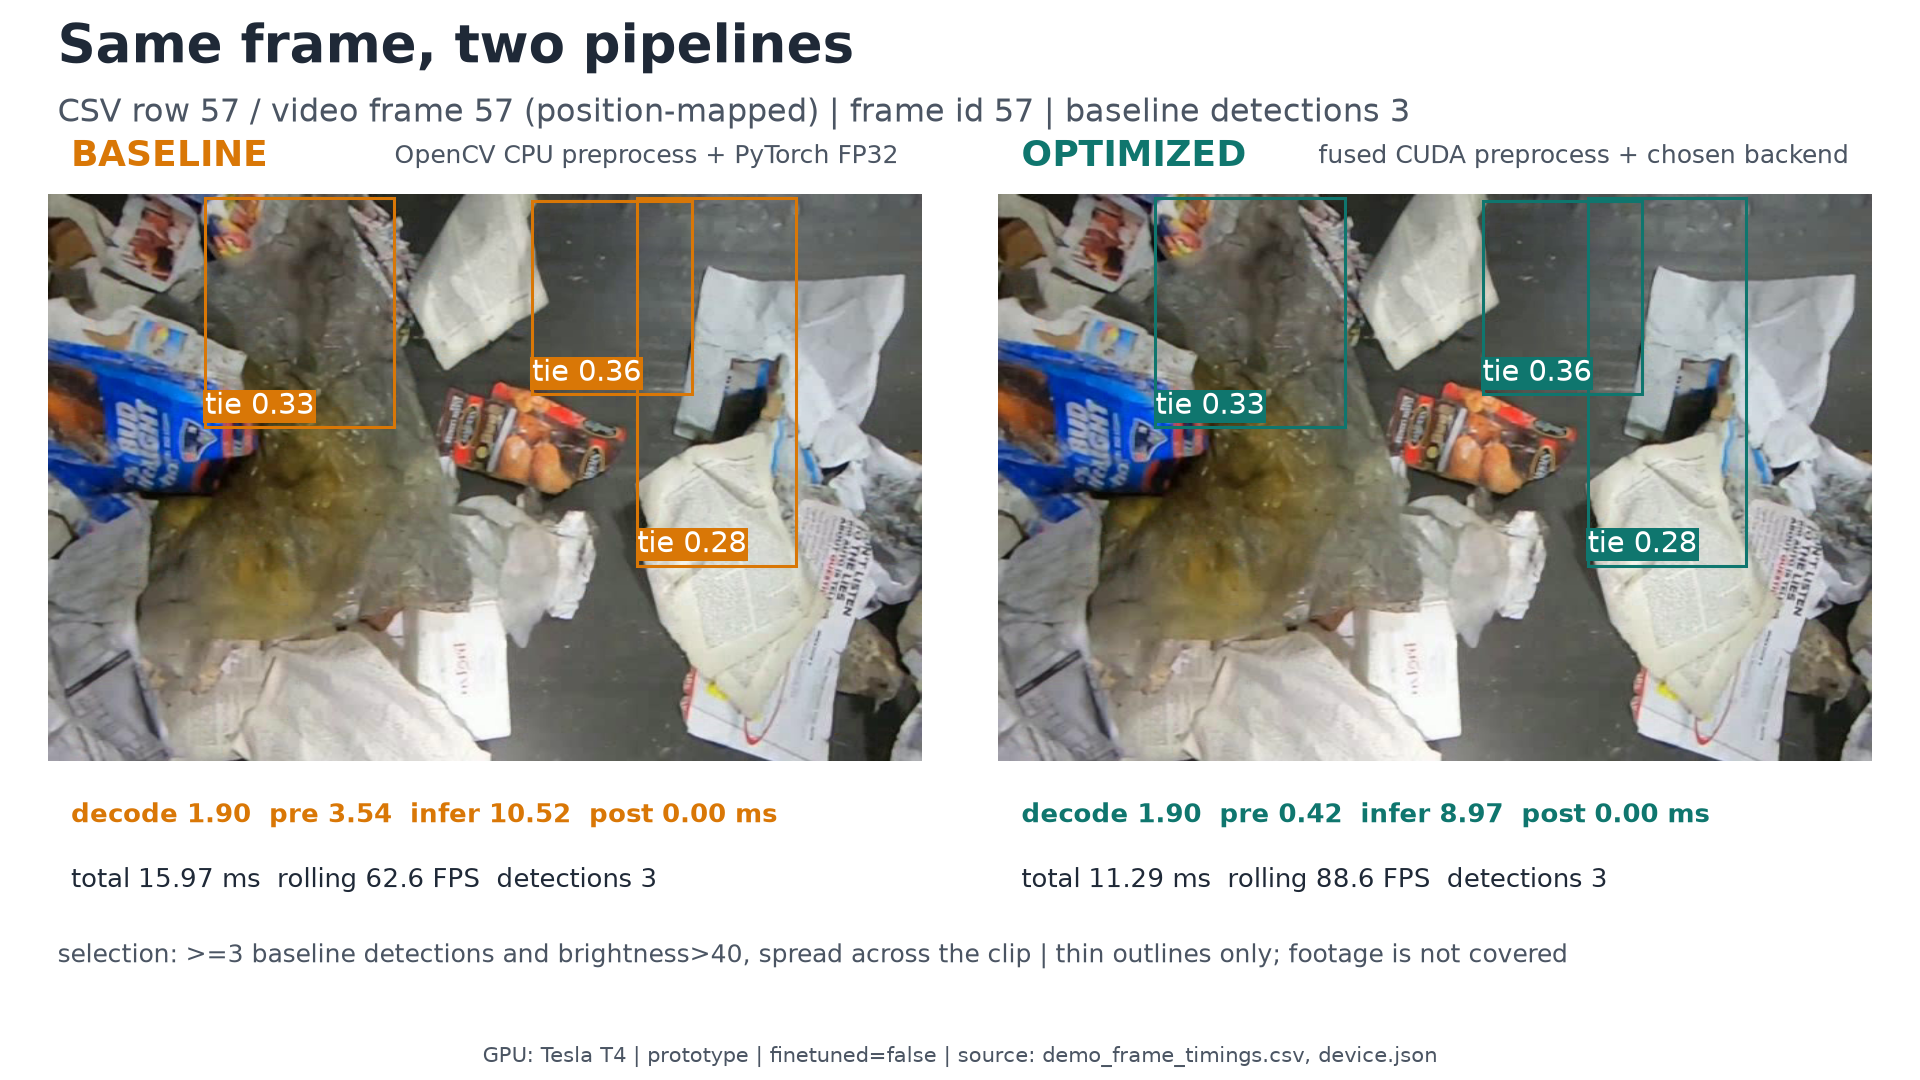
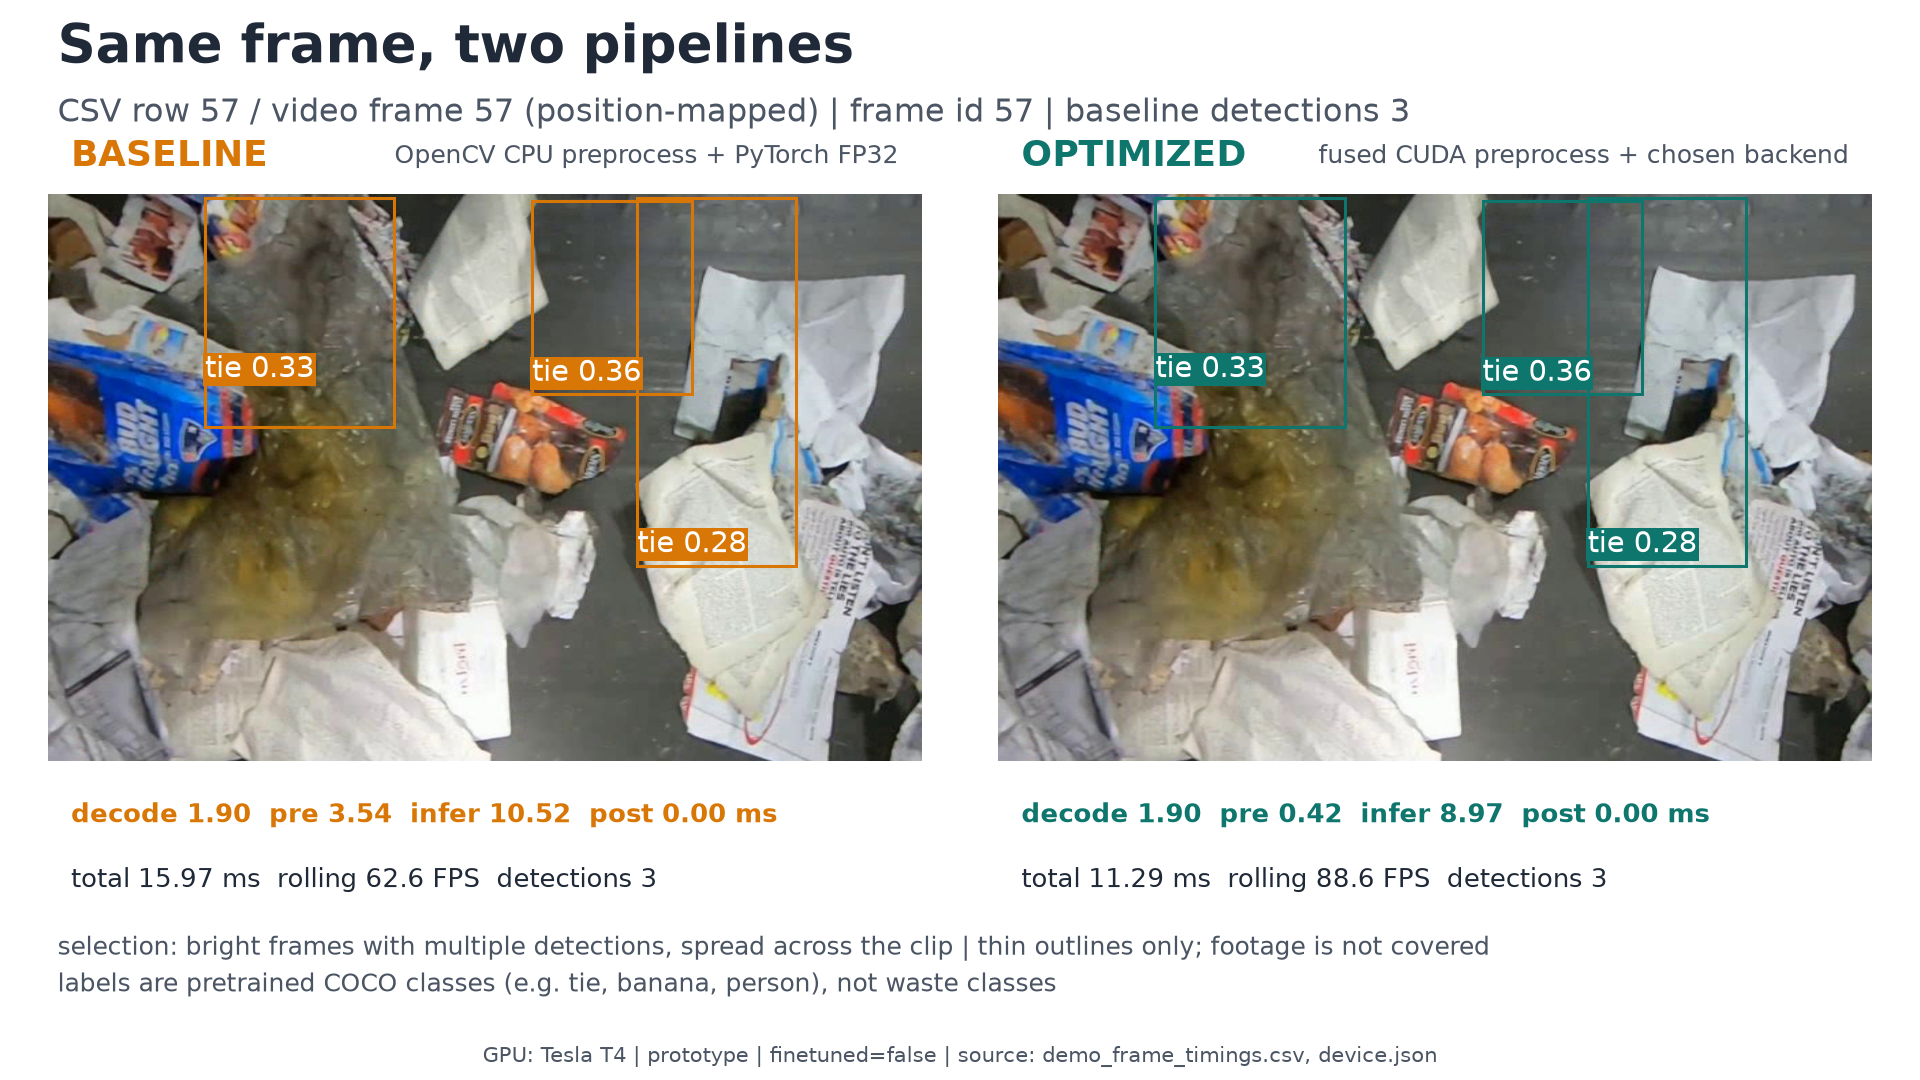
ppt pack: honest COCO-label note, staggered box labels, atomic PNG writes, refreshed index

Changed region(s): [[0.0312, 0.8556, 0.8125, 0.9167], [0.0938, 0.3056, 0.1875, 0.3972], [0.5938, 0.3056, 0.6562, 0.3972]]

diff --git a/tools/make_ppt_pack.py b/tools/make_ppt_pack.py
@@ -26,7 +26,9 @@ import sys
 sys.dont_write_bytecode = True
 
 import csv
+import os
 import random
+import time
 from pathlib import Path
 from typing import Any, Iterable
 
@@ -160,7 +162,7 @@ DESCRIPTIONS = {
     "08_memory_bound_and_streams": "Shows Nsight Compute DRAM versus SM utilisation and measured single-to-multi-stream transfer times.",
     "09_multi_feed": "Compares serial and pipelined FPS per feed at one, two and four feeds.",
     "10_what_did_not_work": "Collects the three measured regressions: float4 loads, FP16 inference and multi-feed pipelining.",
-    "11_detection_quality": "Shows six fixed-seed validation frames with their labelled boxes and the fine-tune status.",
+    "11_detection_quality": "Shows six fixed-seed validation frames with thin outlined ground-truth boxes and the fine-tune status.",
 }
 
 SOURCES: dict[str, list[str]] = {}
@@ -283,8 +285,20 @@ class Canvas:
         self.fig.text(0.5, 0.012, footer, ha="center", va="bottom",
                       fontsize=FOOTER, color=MUTED)
         image_path = OUT / f"{self.stem}.png"
-        self.fig.savefig(image_path, dpi=DPI, facecolor="white")
+        # Write to a fresh temp file first: on Windows an image viewer can hold
+        # the previous PNG open, which makes a direct overwrite fail with
+        # WinError 22.  Retry the atomic replace briefly instead of losing data.
+        temp_path = OUT / f".{self.stem}.{os.getpid()}.tmp.png"
+        self.fig.savefig(temp_path, dpi=DPI, facecolor="white")
         plt.close(self.fig)
+        for attempt in range(20):
+            try:
+                temp_path.replace(image_path)
+                break
+            except OSError:
+                if attempt == 19:
+                    raise
+                time.sleep(0.15)
         with Image.open(image_path) as im:
             size = im.size
             im.verify()
@@ -421,6 +435,7 @@ def draw_frame_panel(
     cls_names: dict[int, str],
     *,
     show_score: bool = True,
+    draw_labels: bool = True,
 ) -> None:
     """Contain-fit one frame and draw thin boxes with large class labels."""
     x0, y0, w, h = ax.get_position().bounds
@@ -439,7 +454,7 @@ def draw_frame_panel(
     def sy(value: float) -> float:
         return yhi - max(0.0, min(ih, value)) * scale / FIG_H
 
-    for box in boxes:
+    for box_index, box in enumerate(boxes):
         x1, x2 = sorted((sx(box.x1), sx(box.x2)))
         top, bottom = sorted((sy(box.y1), sy(box.y2)))
         if x2 - x1 < 0.001 or bottom - top < 0.001:
@@ -448,14 +463,16 @@ def draw_frame_panel(
             Rectangle((x1, bottom), x2 - x1, top - bottom, transform=ax.transData,
                       fill=False, edgecolor=color, linewidth=2.2)
         )
-        name = cls_names.get(box.cls)
-        base = name or f"cls {box.cls}"
-        label = f"{base} {box.score:.2f}" if show_score else base
-        ax.text(
-            x1, top + 0.006, label, fontsize=BOX_LABEL, color="white",
-            va="bottom", ha="left",
-            bbox=dict(facecolor=color, edgecolor="none", pad=1.2),
-        )
+        if draw_labels:
+            name = cls_names.get(box.cls)
+            base = name or f"cls {box.cls}"
+            label = f"{base} {box.score:.2f}" if show_score else base
+            label_y = top + 0.006 + (0.034 if box_index % 2 else 0.0)
+            ax.text(
+                x1, label_y, label, fontsize=BOX_LABEL, color="white",
+                va="bottom", ha="left",
+                bbox=dict(facecolor=color, edgecolor="none", pad=1.2),
+            )
 
 
 # --------------------------------------------------------------------------- #
@@ -577,10 +594,16 @@ def build_02(data: PPTData, chosen: list[FrameTiming], brightness: list[float],
                     source="demo_frame_timings.csv")
             c.value(f"{prefix} boxes drawn", len(boxes), unit="boxes", panel=label,
                     source="demo_frame_timings.csv")
-        note = "selection: >=3 baseline detections and brightness>40, spread across the clip"
+        note = "selection: bright frames with multiple detections, spread across the clip"
         if relaxed:
-            note = "selection relaxed to >=1 detection: no frame met >=3 detections"
-        c.text(0.03, 0.115, note + " | thin outlines only; footage is not covered",
+            note = "selection relaxed: no frame met the multi-detection rule"
+        c.text(0.03, 0.122, note + " | thin outlines only; footage is not covered",
+               size=MINI, color=MUTED)
+        # Say plainly that these are COCO class names from the pretrained model,
+        # so a waste-detection claim is never implied by labels like 'banana'.
+        c.text(0.03, 0.088,
+               "labels are pretrained COCO classes (e.g. tie, banana, person), "
+               "not waste classes",
                size=MINI, color=MUTED)
         c.value("selection", None, panel="selection", source="demo_frame_timings.csv", note=note)
         c.finish(footer_for(data, stem), "data-backed")
@@ -760,8 +783,7 @@ def build_05(data: PPTData) -> None:
     ymax = max(real) * 1.28 if real else 1.0
     y0, y1 = 0.22, 0.74
     c.line(0.075, y0, 0.965, y0, color=INK, lw=2.0)
-    c.text(0.04, y0, "0", size=MINI, ha="right")
-    c.text(0.04, y1, fmt(ymax, 1), size=MINI, ha="right")
+    c.text(0.065, y0, "0", size=MINI, ha="right")
     c.text(0.09, (y0 + y1) / 2, "ms/img", size=MINI, ha="right", color=MUTED)
 
     for gi, backend in enumerate(backends):
@@ -817,8 +839,7 @@ def build_06(data: PPTData) -> None:
     y0, y1 = 0.27, 0.77
     maxv = max((scopes[n].time_ms_mean for n in present), default=1.0) * 1.22
     c.line(0.075, y0, 0.965, y0, color=INK, lw=2.0)
-    c.text(0.045, y1, fmt(maxv, 1), size=MINI, ha="right")
-    c.text(0.045, y0, "0", size=MINI, ha="right")
+    c.text(0.065, y0, "0", size=MINI, ha="right")
     for i, name in enumerate(present):
         row = scopes[name]
         bx = 0.14 + i * 0.165
@@ -1153,7 +1174,9 @@ def build_10(data: PPTData) -> None:
 
 def build_11(data: PPTData) -> None:
     stem = "11_detection_quality"
-    c = Canvas(stem, ["dataset.csv", "waste.yaml", "finetune.csv", "device.json"])
+    sources = ["dataset.csv", "waste.yaml",
+               "finetune.csv" if data.finetune else "finetune.csv (absent)", "device.json"]
+    c = Canvas(stem, sources)
     info = dataset_info(data)
     names = yolo_classes()
     images = bright_val_images(val_images())
@@ -1222,7 +1245,8 @@ def build_11(data: PPTData) -> None:
             Box(b[0] * iw, b[1] * ih, b[2] * iw, b[3] * ih, b[4], 0.0)
             for b in boxes
         ]
-        draw_frame_panel(c, ax, rgb, val_box_objects, INK, names, show_score=False)
+        draw_frame_panel(c, ax, rgb, val_box_objects, INK, names,
+                         show_score=False, draw_labels=False)
         # The label helper prints a score for per-frame detections; val labels
         # have none, so overlay a corrected class-only label below.
         c.value(f"val frame {i + 1}", path.name, source="waste.yaml", note="fixed seed 0")

diff --git a/docs/ppt_pack/index.md b/docs/ppt_pack/index.md
@@ -16,7 +16,7 @@ are labelled `NOT RUN`. The GPU in every footer comes from `results/device.json`
 | [`08_memory_bound_and_streams.png`](08_memory_bound_and_streams.png) | Shows Nsight Compute DRAM versus SM utilisation and measured single-to-multi-stream transfer times. | `profiling_ncu.csv`, `streams.csv`, `device.json` |
 | [`09_multi_feed.png`](09_multi_feed.png) | Compares serial and pipelined FPS per feed at one, two and four feeds. | `batching.csv`, `device.json` |
 | [`10_what_did_not_work.png`](10_what_did_not_work.png) | Collects the three measured regressions: float4 loads, FP16 inference and multi-feed pipelining. | `vector_add.csv`, `infer.csv`, `batching.csv`, `device.json` |
-| [`11_detection_quality.png`](11_detection_quality.png) | Shows six fixed-seed validation frames with their labelled boxes and the fine-tune status. | `dataset.csv`, `waste.yaml`, `finetune.csv`, `device.json` |
+| [`11_detection_quality.png`](11_detection_quality.png) | Shows six fixed-seed validation frames with thin outlined ground-truth boxes and the fine-tune status. | `dataset.csv`, `waste.yaml`, `finetune.csv (absent)`, `device.json` |
 
 ## Generation notes
 
